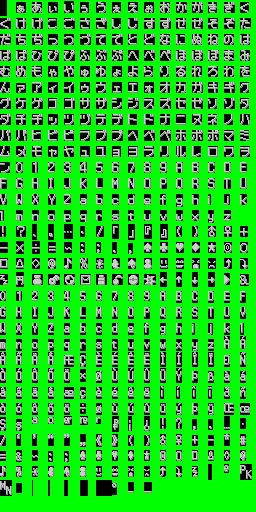
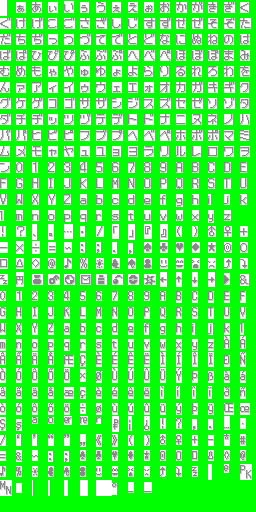
unify reference palette

diff --git a/src/font/readfont.py b/src/font/readfont.py
@@ -4,7 +4,14 @@ import cv2 as opencv
 from bidict import bidict
 from readfont_index import normal_namemap, bold_namemap
 
+### this is the base_palette:
+# 0 : green (not content)
+# 1 : white (background)
+# 2 : light grey (text color 1)
+# 3 : dark grey (text color 2)
+# 4 : black (text color 3, for bold only)
 
+# TODO remove this part entirely (except maybe to reshuffle the palette)
 def process_palette(im: Image, bold: bool):
     """reads, reformats, and modifies the built-in palette to be usable"""
     raw = im.getpalette()  # flattened rgb triple array
@@ -14,13 +21,13 @@ def process_palette(im: Image, bold: bool):
         for i in range(len(raw) // 3)
     ]
     # replace with bgra quadruples, i.e. add alpha channel
-    npal = [color + [255] for color in pal]
+    npal = [color + [0xFF] for color in pal]
     # map green to the zero vector because it is not part of content
-    npal[4] = [0, 0, 0, 0]
+    npal[4] = [0x00, 0x00, 0x00, 0x00]
     # map white to zero alpha because it is part of content but transparent
-    npal[0] = [255, 255, 255, 0]
+    npal[0] = [0xFF, 0xFF, 0xFF, 0x00]
     # non-bold: map black to zero alpha like white (bold uses black for nontransparent color)
-    npal[3] = [15, 15, 15, 255] if bold else [255, 255, 255, 0]
+    npal[3] = [0x0F, 0x0F, 0x0F, 0xFF] if bold else [0xFF, 0xFF, 0xFF, 0x00]
     return npal
 
 
